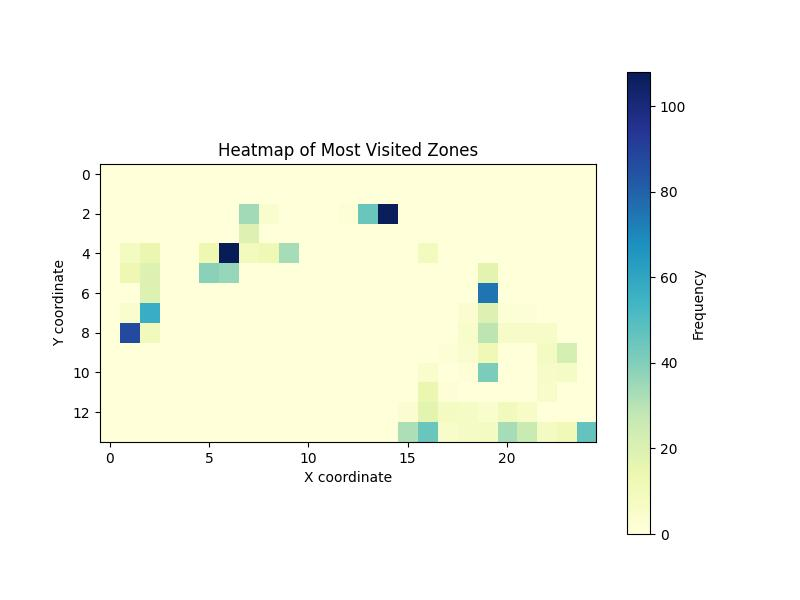
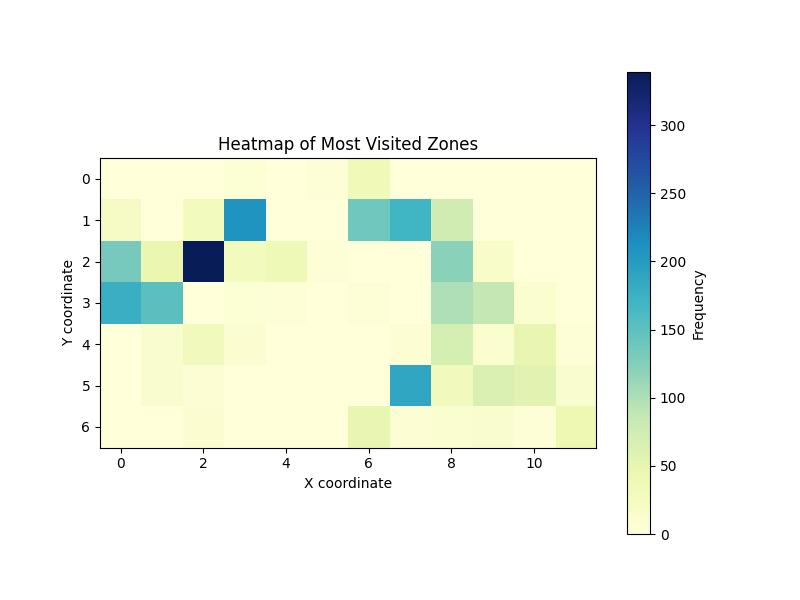
Added heatmap and trayectories

diff --git a/ImageProcessor/Utils/PersonDetector.py b/ImageProcessor/Utils/PersonDetector.py
@@ -10,11 +10,26 @@ import collections
 from sklearn.cluster import SpectralClustering
 import numpy as np
 from dtaidistance import dtw
+from sklearn.metrics import silhouette_score
 
 '''
     Class to detect people in a frame using OpenVino and Yolov8
 '''
-    
+
+colors = [
+    (255, 0, 0),    # Red
+    (0, 255, 0),    # Green
+    (0, 0, 255),    # Blue
+    (255, 255, 0),  # Yellow
+    (255, 0, 255),  # Magenta
+    (0, 255, 255),  # Cyan
+    (128, 0, 0),    # Maroon
+    (0, 128, 0),    # Dark Green
+    (0, 0, 128),    # Navy
+    (128, 128, 0),   # Olive
+    (255,255,255)   # White
+]
+
 class PersonDetector:
 
     def __init__(self) -> None:
@@ -88,12 +103,14 @@ class PersonDetector:
     def get_detections(self, frame):
         if self.w is None or self.h is None:
             self.h, self.w, _ = frame.shape
-            self.img = frame
+            self.img = frame.copy()
             print(self.h, self.w)
         tracks = self.det_model.track(frame, persist=True, show=False, classes=[0], tracker='bytetrack.yaml', verbose=False)   
 
         for out in tracks:
             for box in out.boxes:
+                if box.id is None:
+                    continue
                 x1, y1, x2, y2 = [round(x) for x in box.xyxy[0].tolist()]
                 # track_id = out.track_id/
                 center = (int((x1 + x2) / 2), int((y1 + y2) / 2))
@@ -108,15 +125,18 @@ class PersonDetector:
 
     def get_common_paths(self):
         # print(self.paths)
+        if len(self.paths) == 0:
+            return None
         paths_list = list(self.paths.values())
 
         # skip every 10 points of each path
         for i, path in enumerate(paths_list):
             paths_list[i] = path[::10]
 
-        print(paths_list)
+        # print(paths_list)
         
         flattened_paths = [np.ravel(path) for path in paths_list]
+        
         # Compute the DTW distance between every pair of paths
         n_paths = len(paths_list)
         distance_matrix = np.zeros((n_paths, n_paths))
@@ -127,10 +147,21 @@ class PersonDetector:
                     distance = dtw.distance(flattened_paths[i], flattened_paths[j])
                     distance_matrix[i, j] = distance
                     distance_matrix[j, i] = distance
+        sil_scores = []
+        possible_n_clusters = range(2, 11)  # Test for 2 to 10 clusters
 
+        for n_clusters in possible_n_clusters:
+            spectral = SpectralClustering(n_clusters=n_clusters, affinity='precomputed')
+            labels = spectral.fit_predict(distance_matrix)
+            sil_score = silhouette_score(distance_matrix, labels, metric='precomputed')
+            sil_scores.append(sil_score)
+
+        optimal_n_clusters = possible_n_clusters[np.argmax(sil_scores)]
+        print("Optimal number of clusters:", optimal_n_clusters)
+            
         # Apply Spectral Clustering
         n_clusters = 3  # Define the number of clusters
-        spectral = SpectralClustering(n_clusters=n_clusters, affinity='precomputed')
+        spectral = SpectralClustering(n_clusters=optimal_n_clusters, affinity='precomputed')
         labels = spectral.fit_predict(distance_matrix)
 
         # Draw a line connecting the points in each path but only for the first path in each cluster 
@@ -138,18 +169,34 @@ class PersonDetector:
             #     for j in range(len(path) - 1):
             #         cv2.line(self.img, path[j], path[j + 1], (0, 255, 0), 2)
         # print results
-        for i, path in enumerate(paths_list):
-            print(f"Path {i+1} is in cluster {labels[i]}")
-            if labels[i] == 0:
-                print("OOOOOOOOOPath", i+1, "is in cluster 0")
-                for j in range(len(path) - 1):
-                    cv2.line(self.img, path[j], path[j + 1], (255, 0, 0), 2)
+        copy_img = self.img
+        overlay = np.full_like(copy_img, (255, 255, 255), dtype=np.uint8)  # White image with the same size as the original
 
+        # Set the transparency level
+        alpha = 0.5  # 0 is fully transparent, 1 is fully opaque
+        copy_img = cv2.addWeighted(overlay, alpha, copy_img, 1 - alpha, 0)
+ 
         for path in paths_list:
-            for i in range(len(path) - 1):
-                cv2.line(self.img, path[i], path[i + 1], (0, 255, 0), 2)
+            for i in range(len(path) - 2):
+                if i % 10 == 0:
+                    cv2.line(copy_img, path[i], path[i + 1], (0, 0, 0), 2)
+                cv2.line(copy_img, path[i], path[i + 1], (0, 0, 0), 2)
 
-        cv2.imwrite("common_paths.jpg", self.img)
+        index = 0
+        drawn = np.zeros(optimal_n_clusters)
+        for i, path in enumerate(paths_list):
+            # print(f"Path {i+1} is in cluster {labels[i]}")
+            if drawn[labels[i]] == 0:
+                for j in range(len(path) - 1):
+                    cv2.line(copy_img, path[j], path[j + 1], colors[index], 3)
+                drawn[labels[i]] = 1
+                index += 1
+                if index == len(colors):
+                    index = 0
+
+
+
+        cv2.imwrite("common_paths.jpg", copy_img)
         # Display the clusters for each path
         # for i, path in enumerate(self.paths):
         #     print(f"Path {i+1} is in cluster {labels[i]}")
@@ -164,7 +211,7 @@ class PersonDetector:
         data = np.array(self.points)
 
         # Define the gri`d size
-        bin_size_factor = 50
+        bin_size_factor = 100
         grid_size = [self.h, self.w]
         adjusted_h = int(self.h / bin_size_factor)
         adjusted_w = int(self.w / bin_size_factor)
@@ -175,6 +222,23 @@ class PersonDetector:
             bins=[adjusted_w, adjusted_h],
             range=[[0, max(data[:, 0])], [0, max(data[:, 1])]]
         )
+
+        image = self.img.copy()
+        heatmap_data = cv2.normalize(heatmap, None, 0, 1, cv2.NORM_MINMAX)
+
+        # Convert heatmap to color map (heatmap is in grayscale format)
+        heatmap_colored = cv2.applyColorMap((heatmap_data * 255).astype(np.uint8), cv2.COLORMAP_JET)
+
+        # Resize heatmap to match the original image size if necessary
+        if heatmap_colored.shape[0] != image.shape[0] or heatmap_colored.shape[1] != image.shape[1]:
+            heatmap_colored = cv2.resize(heatmap_colored, (image.shape[1], image.shape[0]))
+
+        # Blend heatmap with original image
+        alpha = 0.5  # Transparency level of the heatmap
+        overlay = cv2.addWeighted(heatmap_colored, alpha, image, 1 - alpha, 0)
+
+        # Save or show the result
+        cv2.imwrite('image_with_heatmap_overlay.jpg', overlay)
 
         # Plot the heatmap
         plt.figure(figsize=(8, 6))
